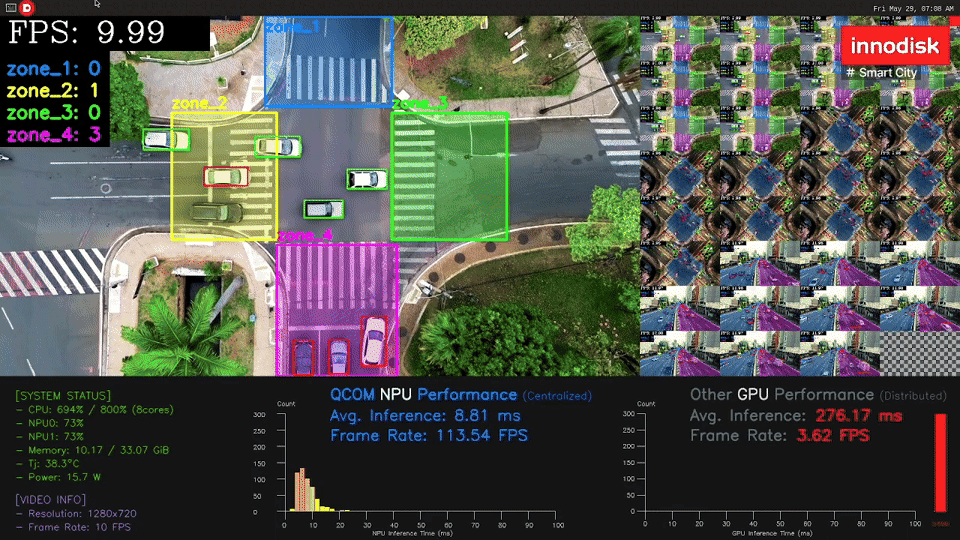
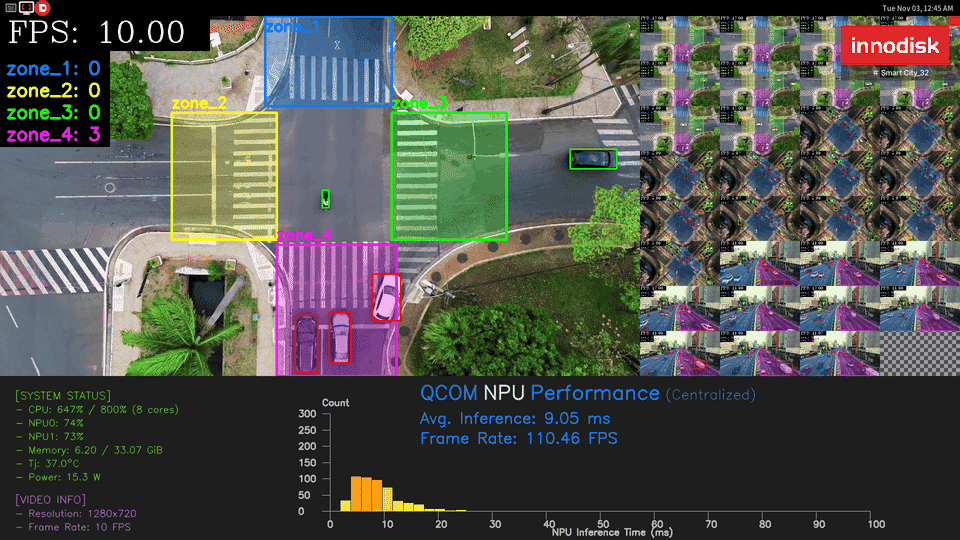
docs(iqs-qvadk): replace smart city preview with a device capture

diff --git a/tutorials/sdks/iqs-qvadk/README.md b/tutorials/sdks/iqs-qvadk/README.md
@@ -20,7 +20,7 @@ This page lists the applications of iqs-qvadk and shows how to switch between th
 | PPE | 9 | yolo26n (5) | Runs PPE and ROI person detection on 9 streams. | <img src="./fig/ppe_thumb.png" width="240"> |
 | Defect detection | 6 | yolov10n (1) | Runs one independent YOLO model on each of 6 streams to detect screw defects on a production line. | <img src="./fig/dd_thumb.png" width="240"> |
 | DMS | 3 | [scrfd](https://github.com/PINTO0309/PINTO_model_zoo/tree/main/129_SCRFD) (1), [landmark](https://github.com/PINTO0309/PINTO_model_zoo/tree/main/410_FaceMeshV2) (1), resnet18 face (2), resnet18 hands (3), resnet50 body (5) | Chains face, gaze, hand and body models on each of 3 driver streams (5 models in total) and shows a warning on high-risk behavior. | <img src="./fig/dms_thumb.png" width="240"> |
-| Smart City | 32 | yolo26n (5) | Runs vehicle detection on 32 streams of a road intersection seen from above, counts the vehicles in each zone, and shows the NPU and GPU inference performance side by side. | <img src="./fig/smart_city_thumb.png" width="240"> |
+| Smart City | 32 | yolo26n (5) | Runs vehicle detection on 32 streams of a road intersection seen from above, counts the vehicles in each zone, and shows the NPU inference performance. | <img src="./fig/smart_city_thumb.png" width="240"> |
 
 ## How to switch and run an application
 
